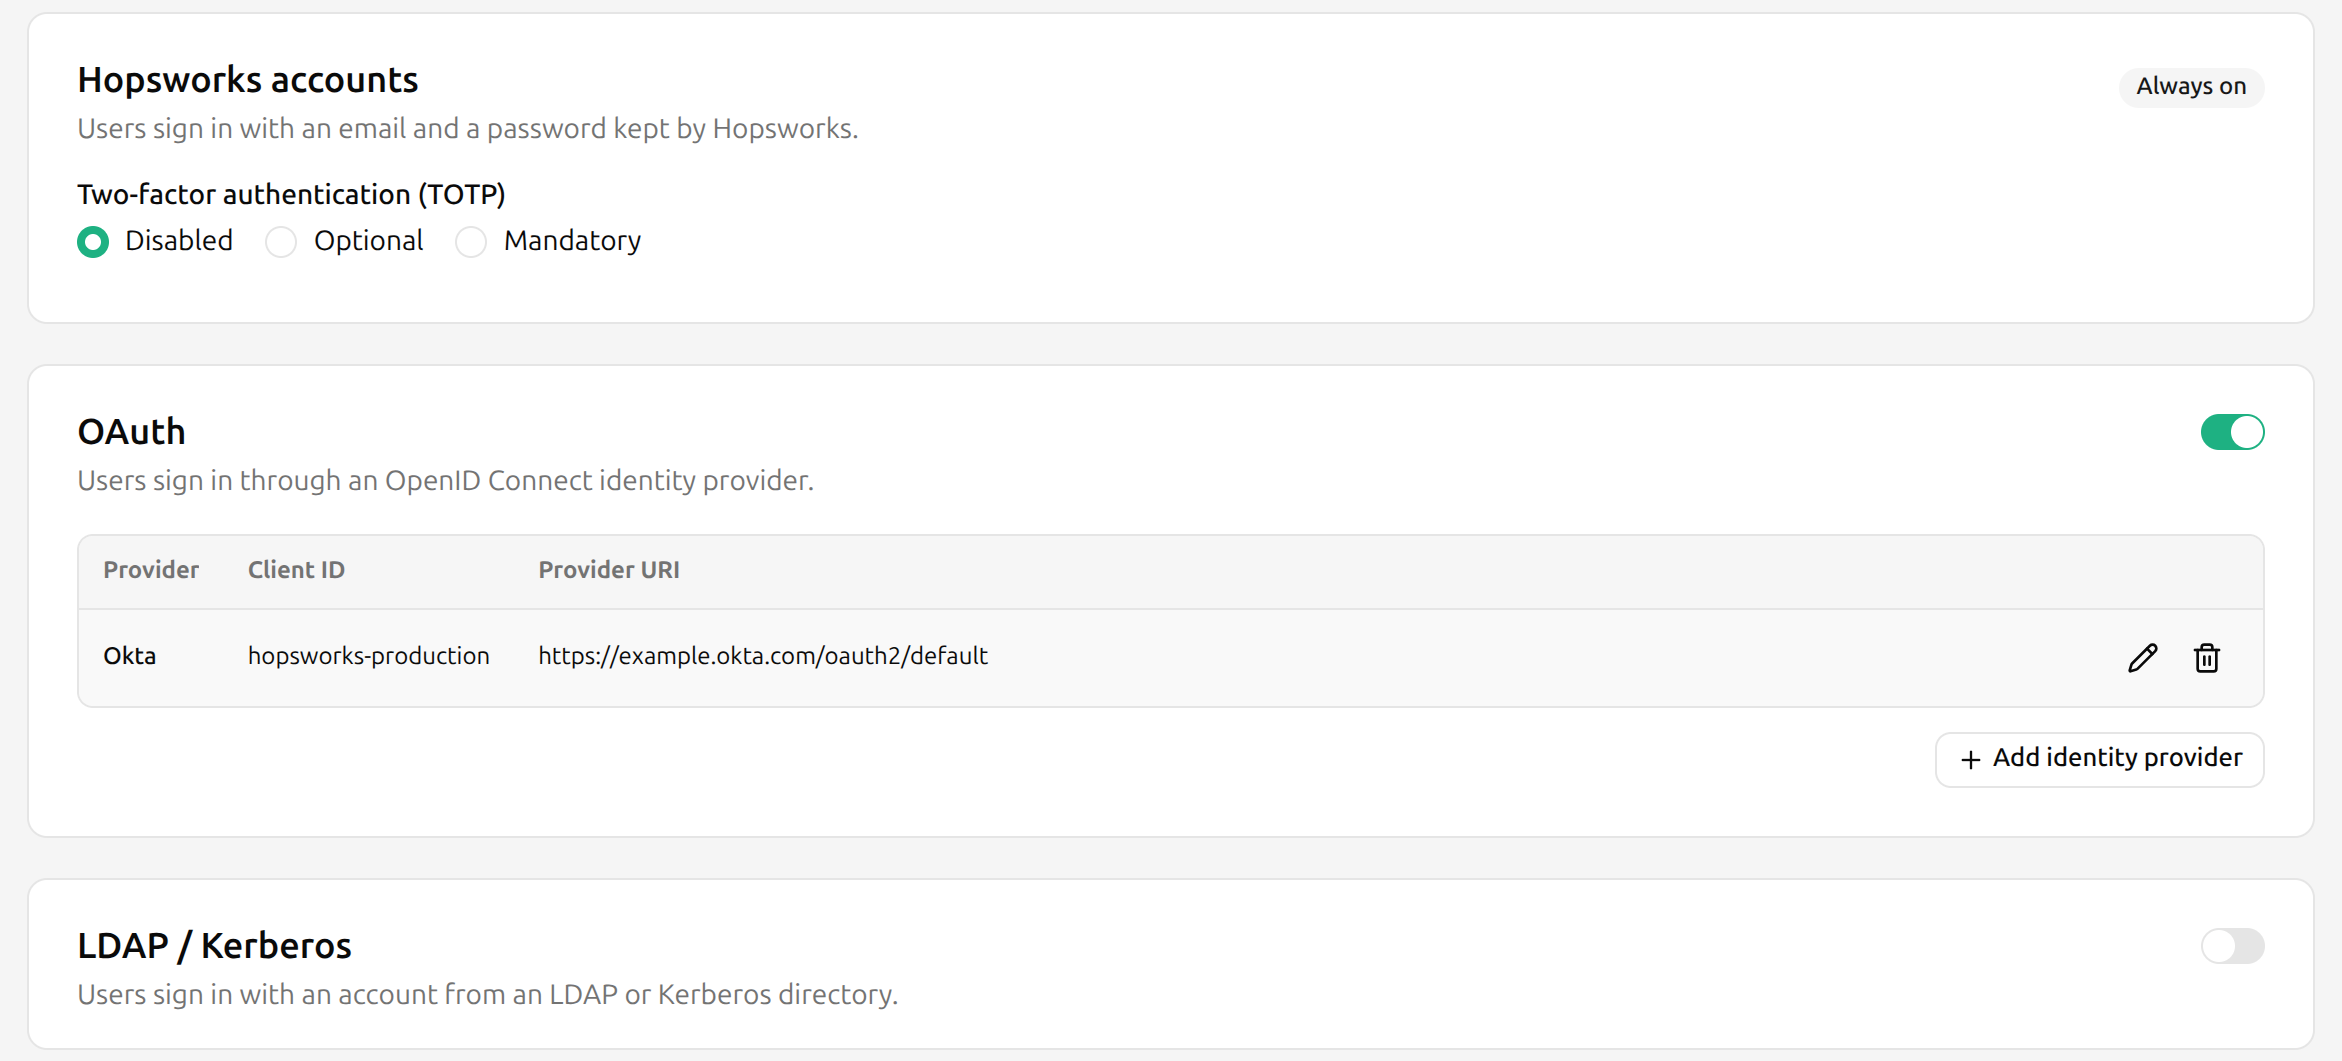
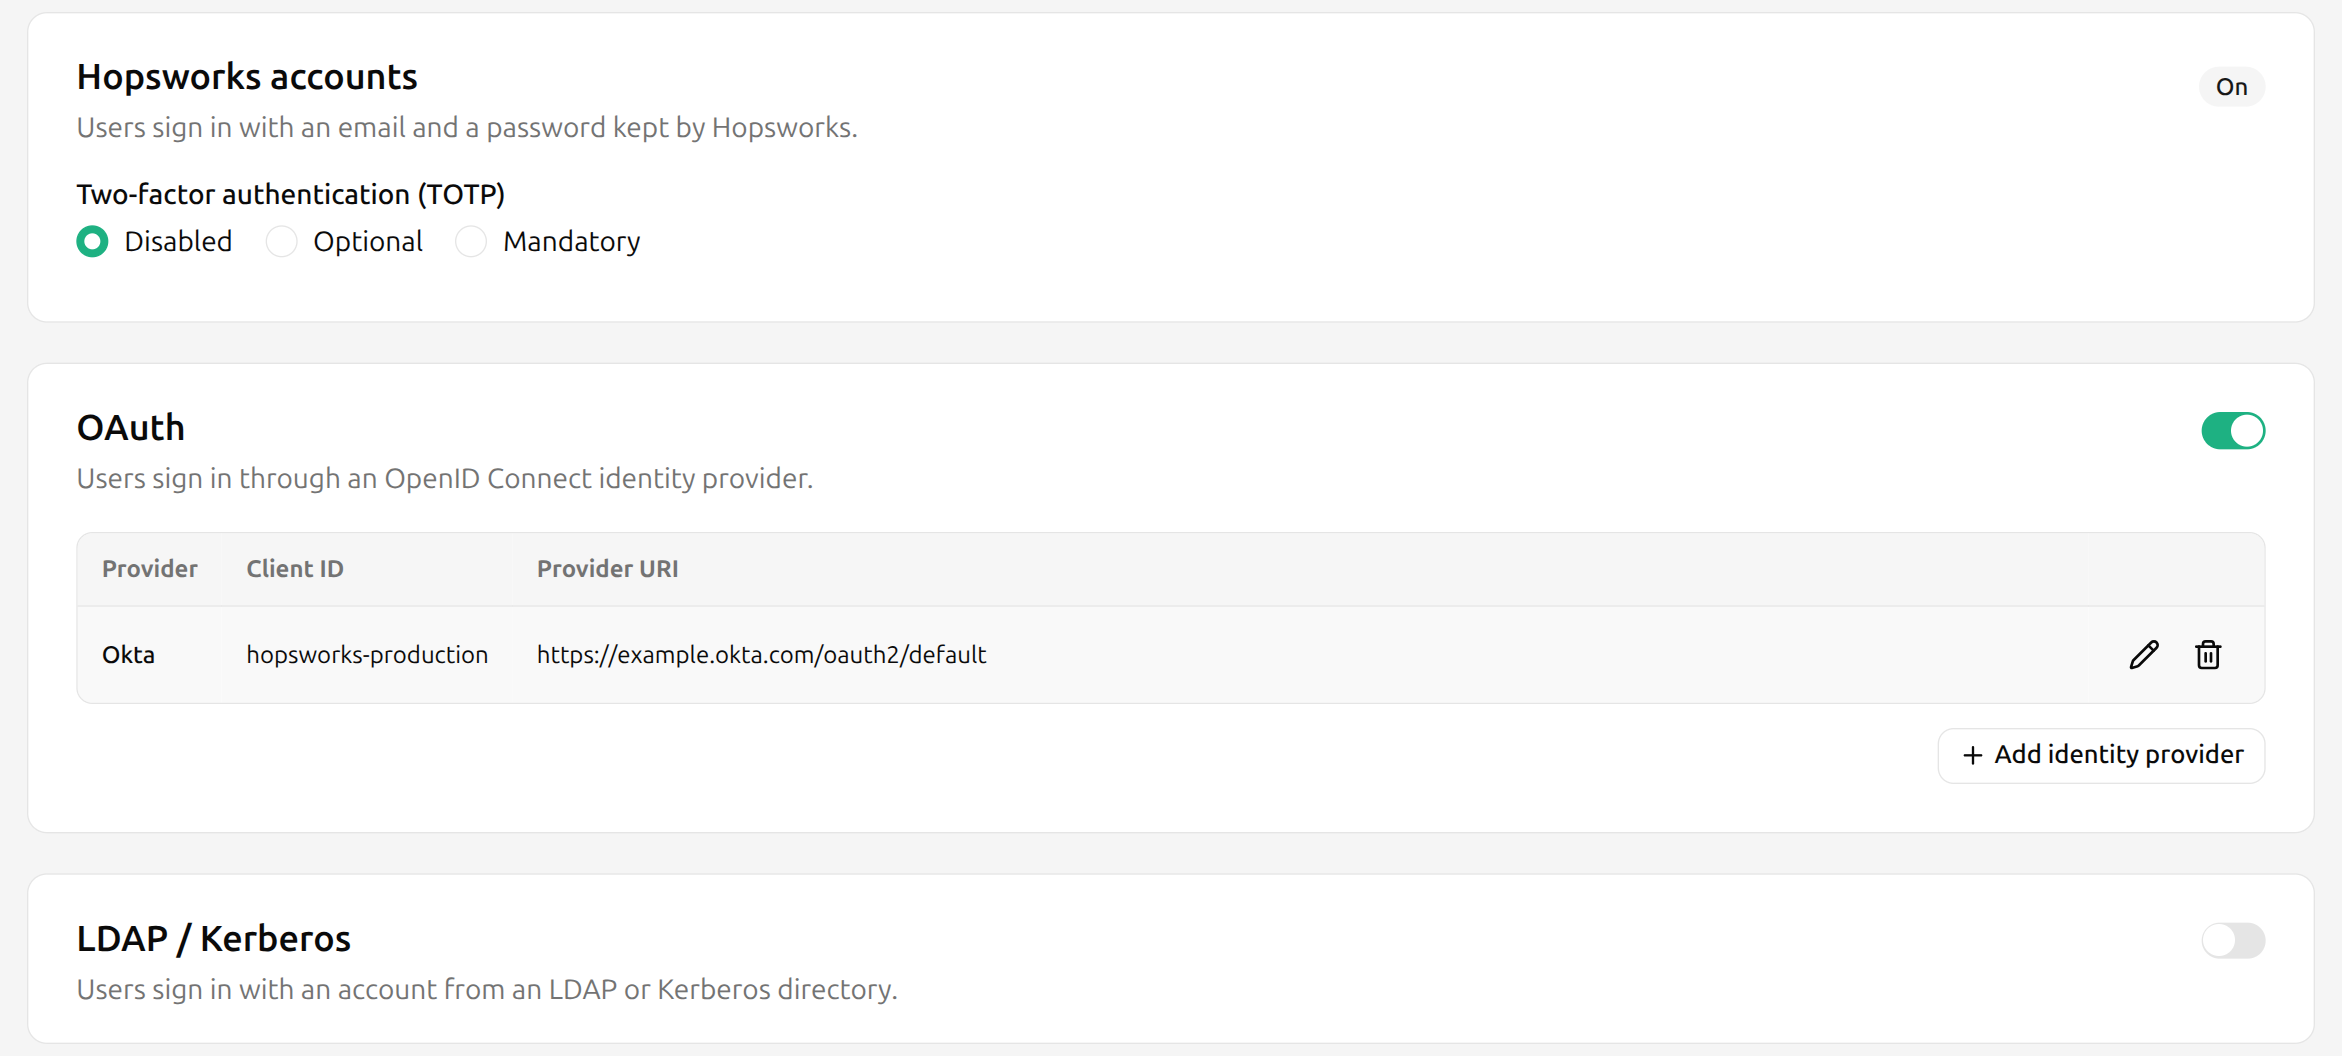
[HFRONT-1626] Admin page issues https://hopsworks.atlassian.net/browse/HFRONT-1626
The Hopsworks accounts card on the authentication page no longer says
"Always on": after the review of hopsworks-front#2319 its badge shows
On, or Sign-in off when the disable_password_login variable is set.

The authentication guide says so instead of calling the method always
on, and the three authentication page captures, the general one and
the LDAP and Kerberos ones, are retaken with the new badge.

diff --git a/docs/setup_installation/admin/auth.md b/docs/setup_installation/admin/auth.md
@@ -20,7 +20,8 @@ To configure Authentication methods click on your name in the top right corner o
 On the **Authentication configuration** page you can configure how users authenticate.
 Each control is applied as soon as you change it, there is no save step.
 
-1. **Hopsworks accounts**: always on; users can register and log in with credentials managed by Hopsworks itself.
+1. **Hopsworks accounts**: users can register and log in with credentials managed by Hopsworks itself.
+   The card shows _On_ unless password sign-in is turned off with the `disable_password_login` variable, which is not changed from this page.
 2. **TOTP Two-factor Authentication**: can be _disabled_, _optional_ or _mandatory_.
    If set to mandatory all users are required to set up two-factor authentication when registering.
 
